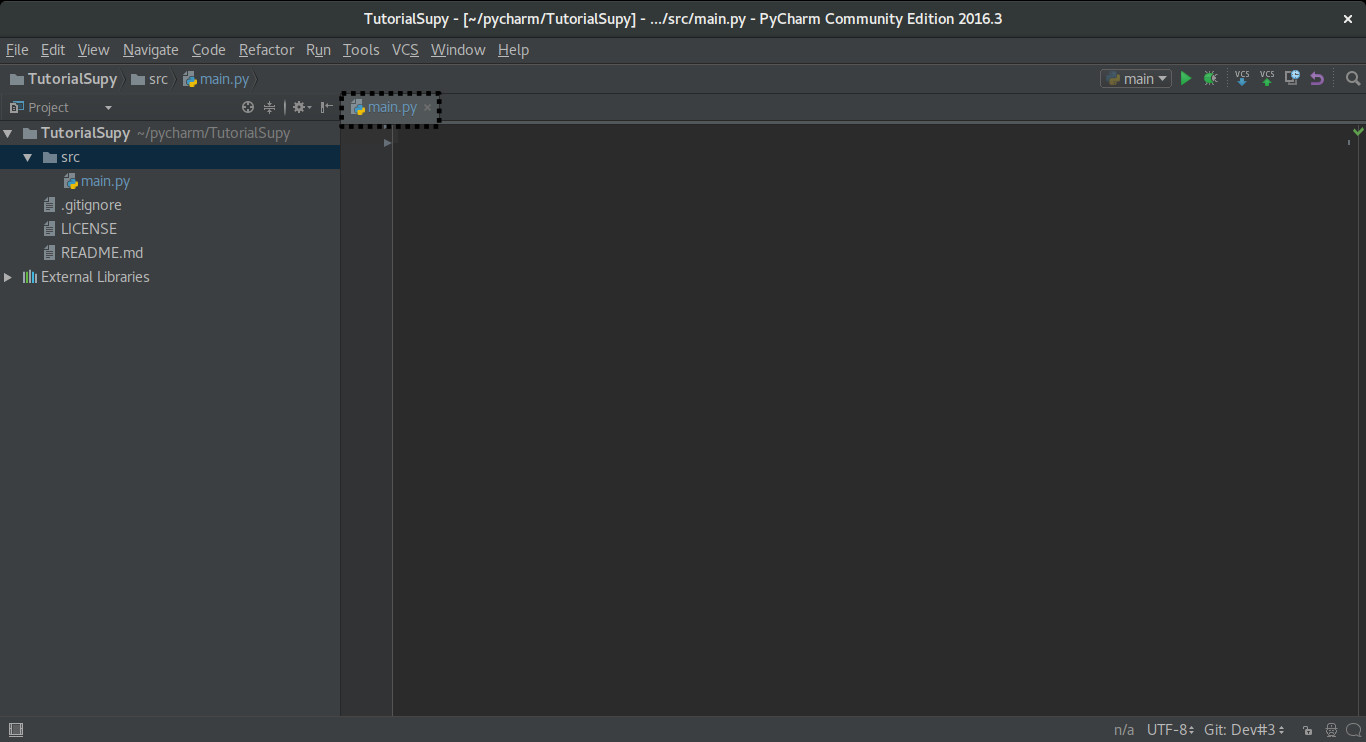
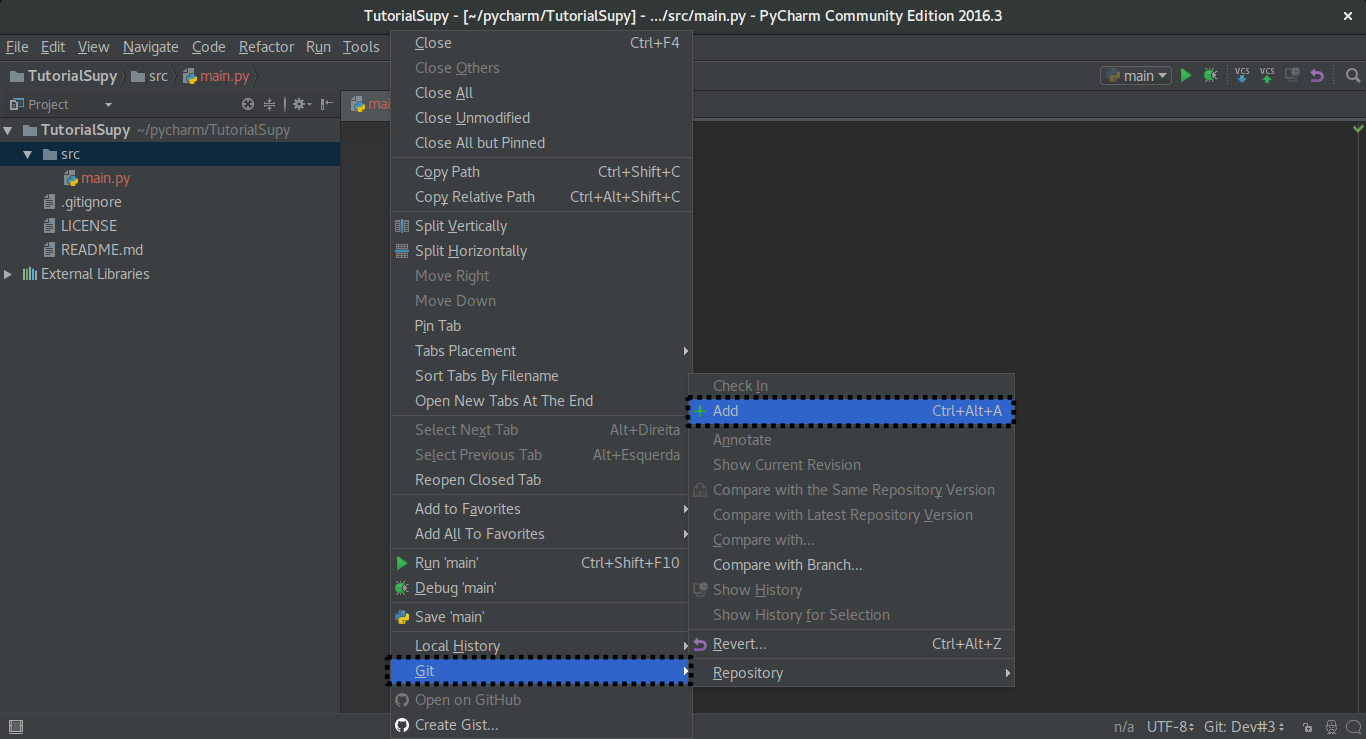
imagem abrir 6

diff --git a/docs/source/tutorial.rst b/docs/source/tutorial.rst
@@ -299,11 +299,11 @@ Surge a aba do novo arquivo em Python. Porem ela vai esta na cor vermelha.
 
 Para que seja realmente adicionado o arquivo, clique com o botão direito em src > git > +add
 
-.. image:: _static/abrir5.jpg
+.. image:: _static/abrir6.jpg
 
 Se o arquivo mudou para a cor azul ele está corretamente adicionado.
 
-.. image:: _static/abrir6.jpg
+.. image:: _static/abrir7.jpg
 
 
 **DOCUMENTOS DE LEITURA**
